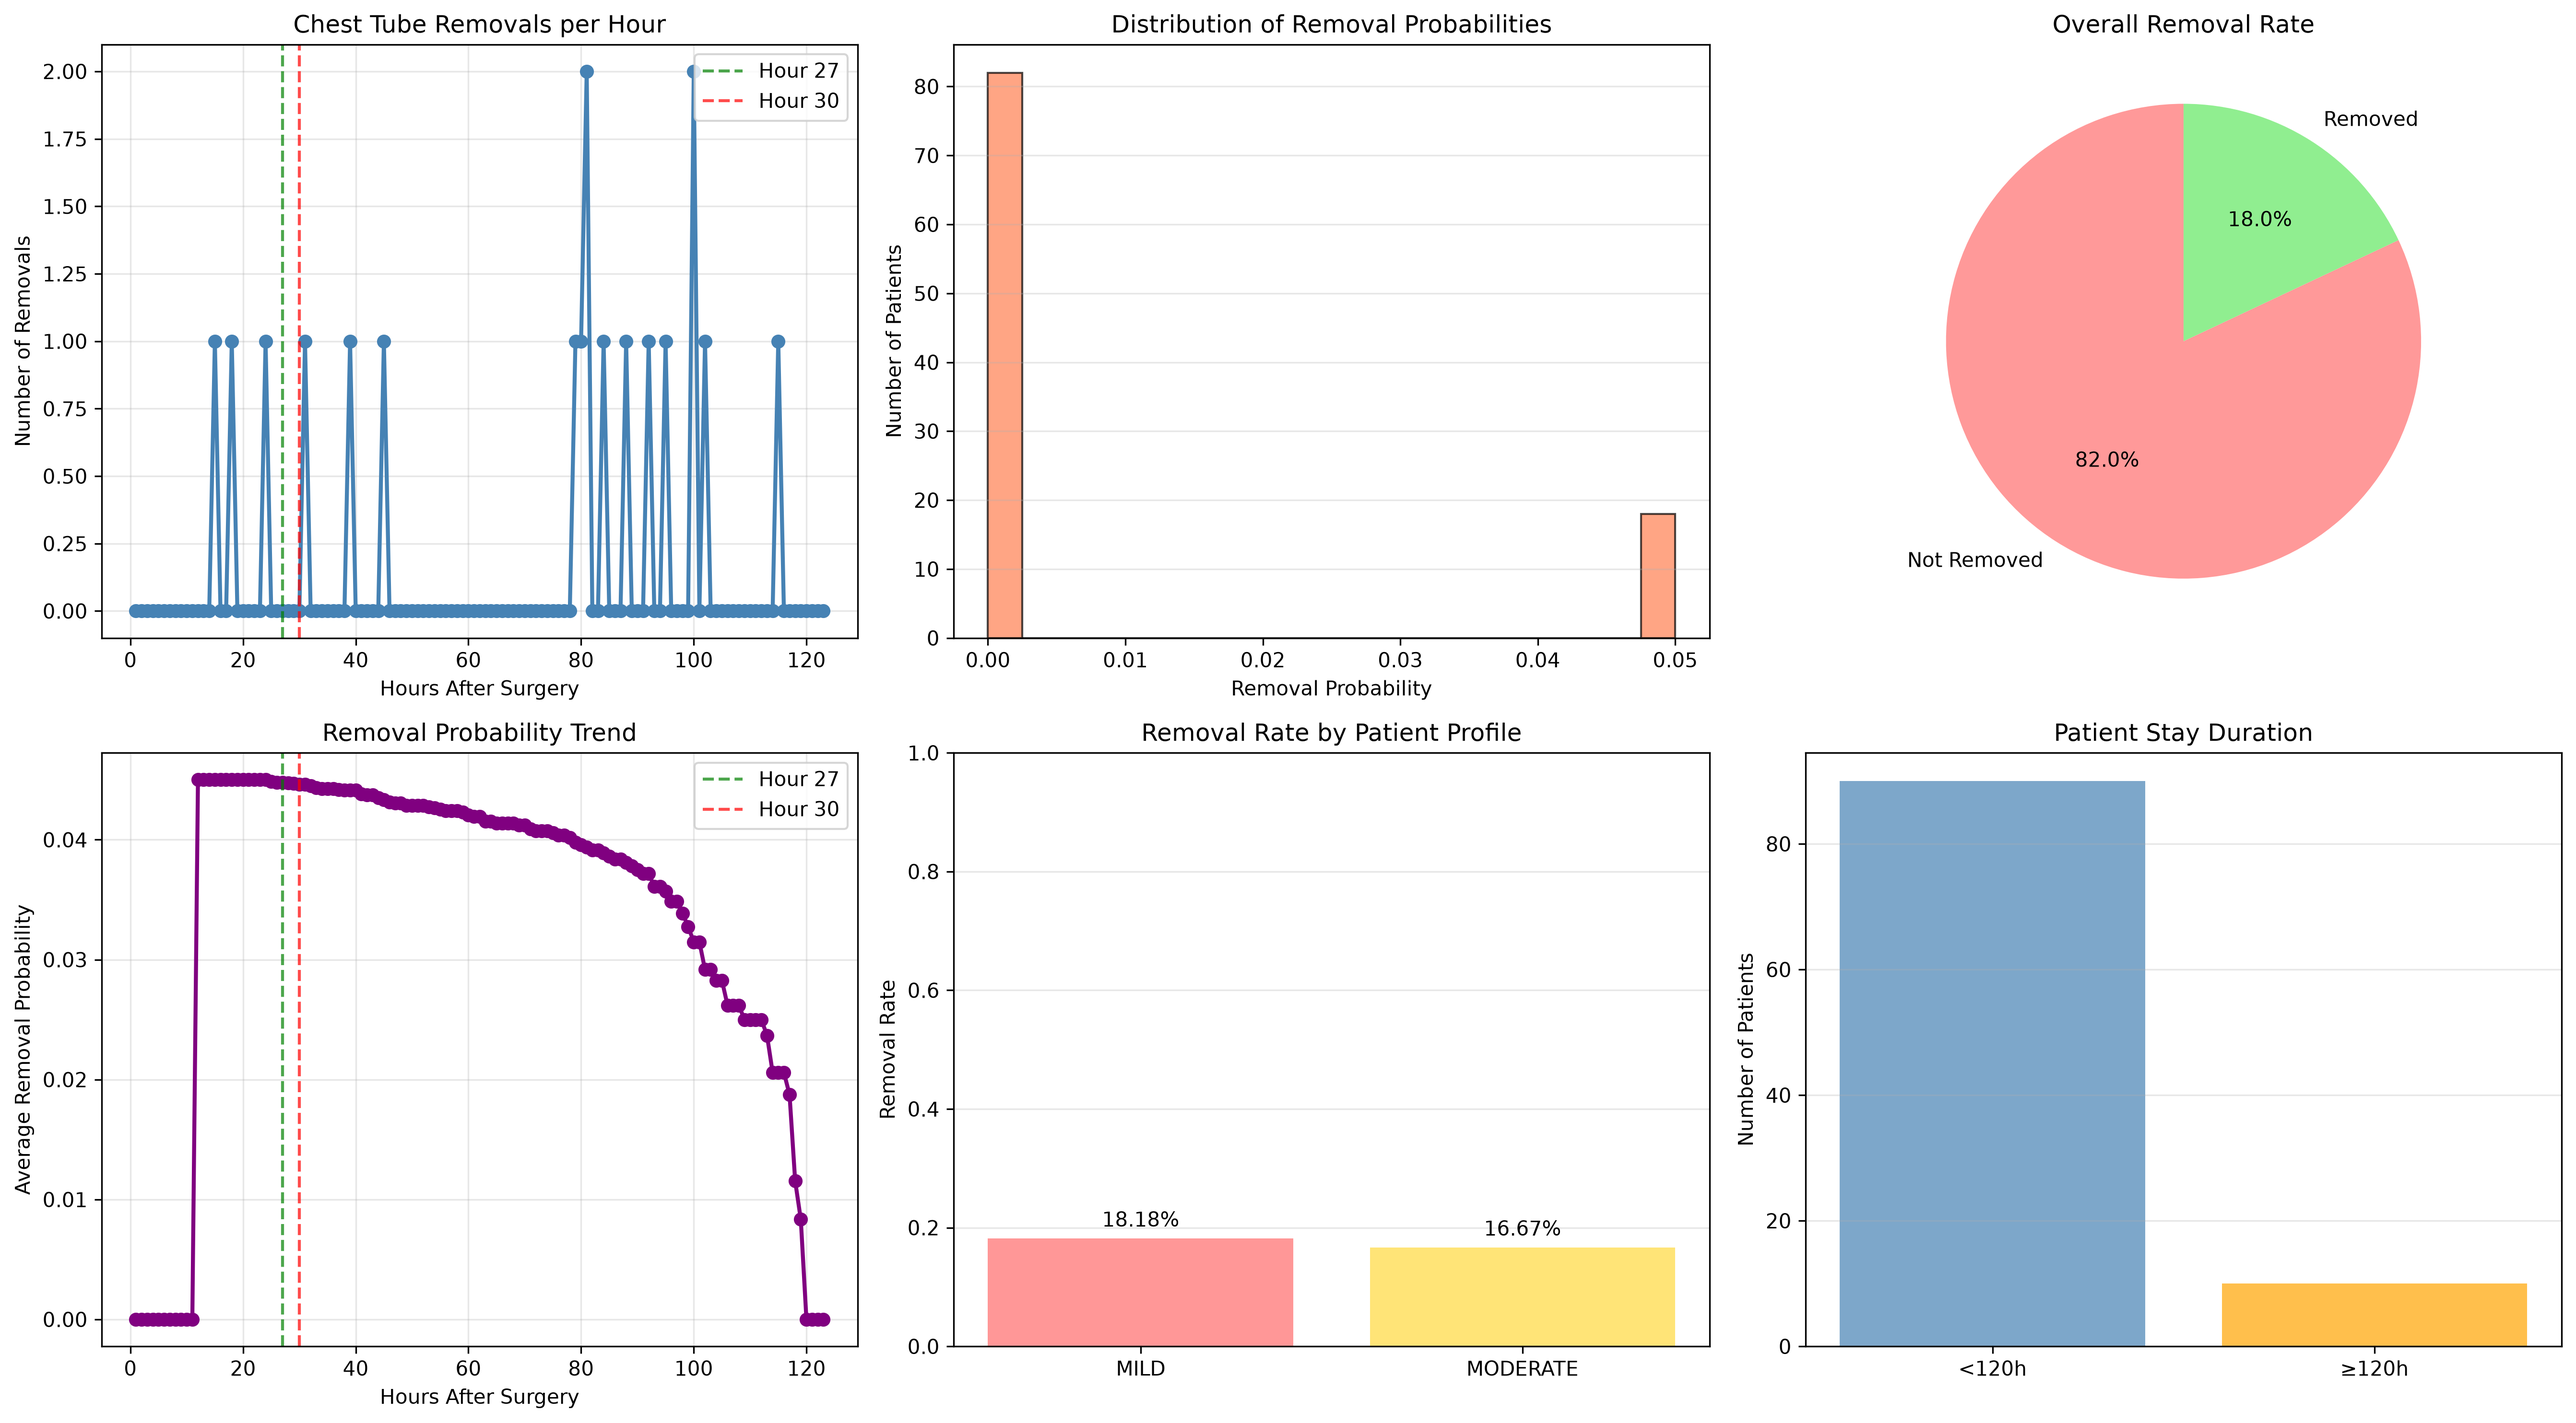
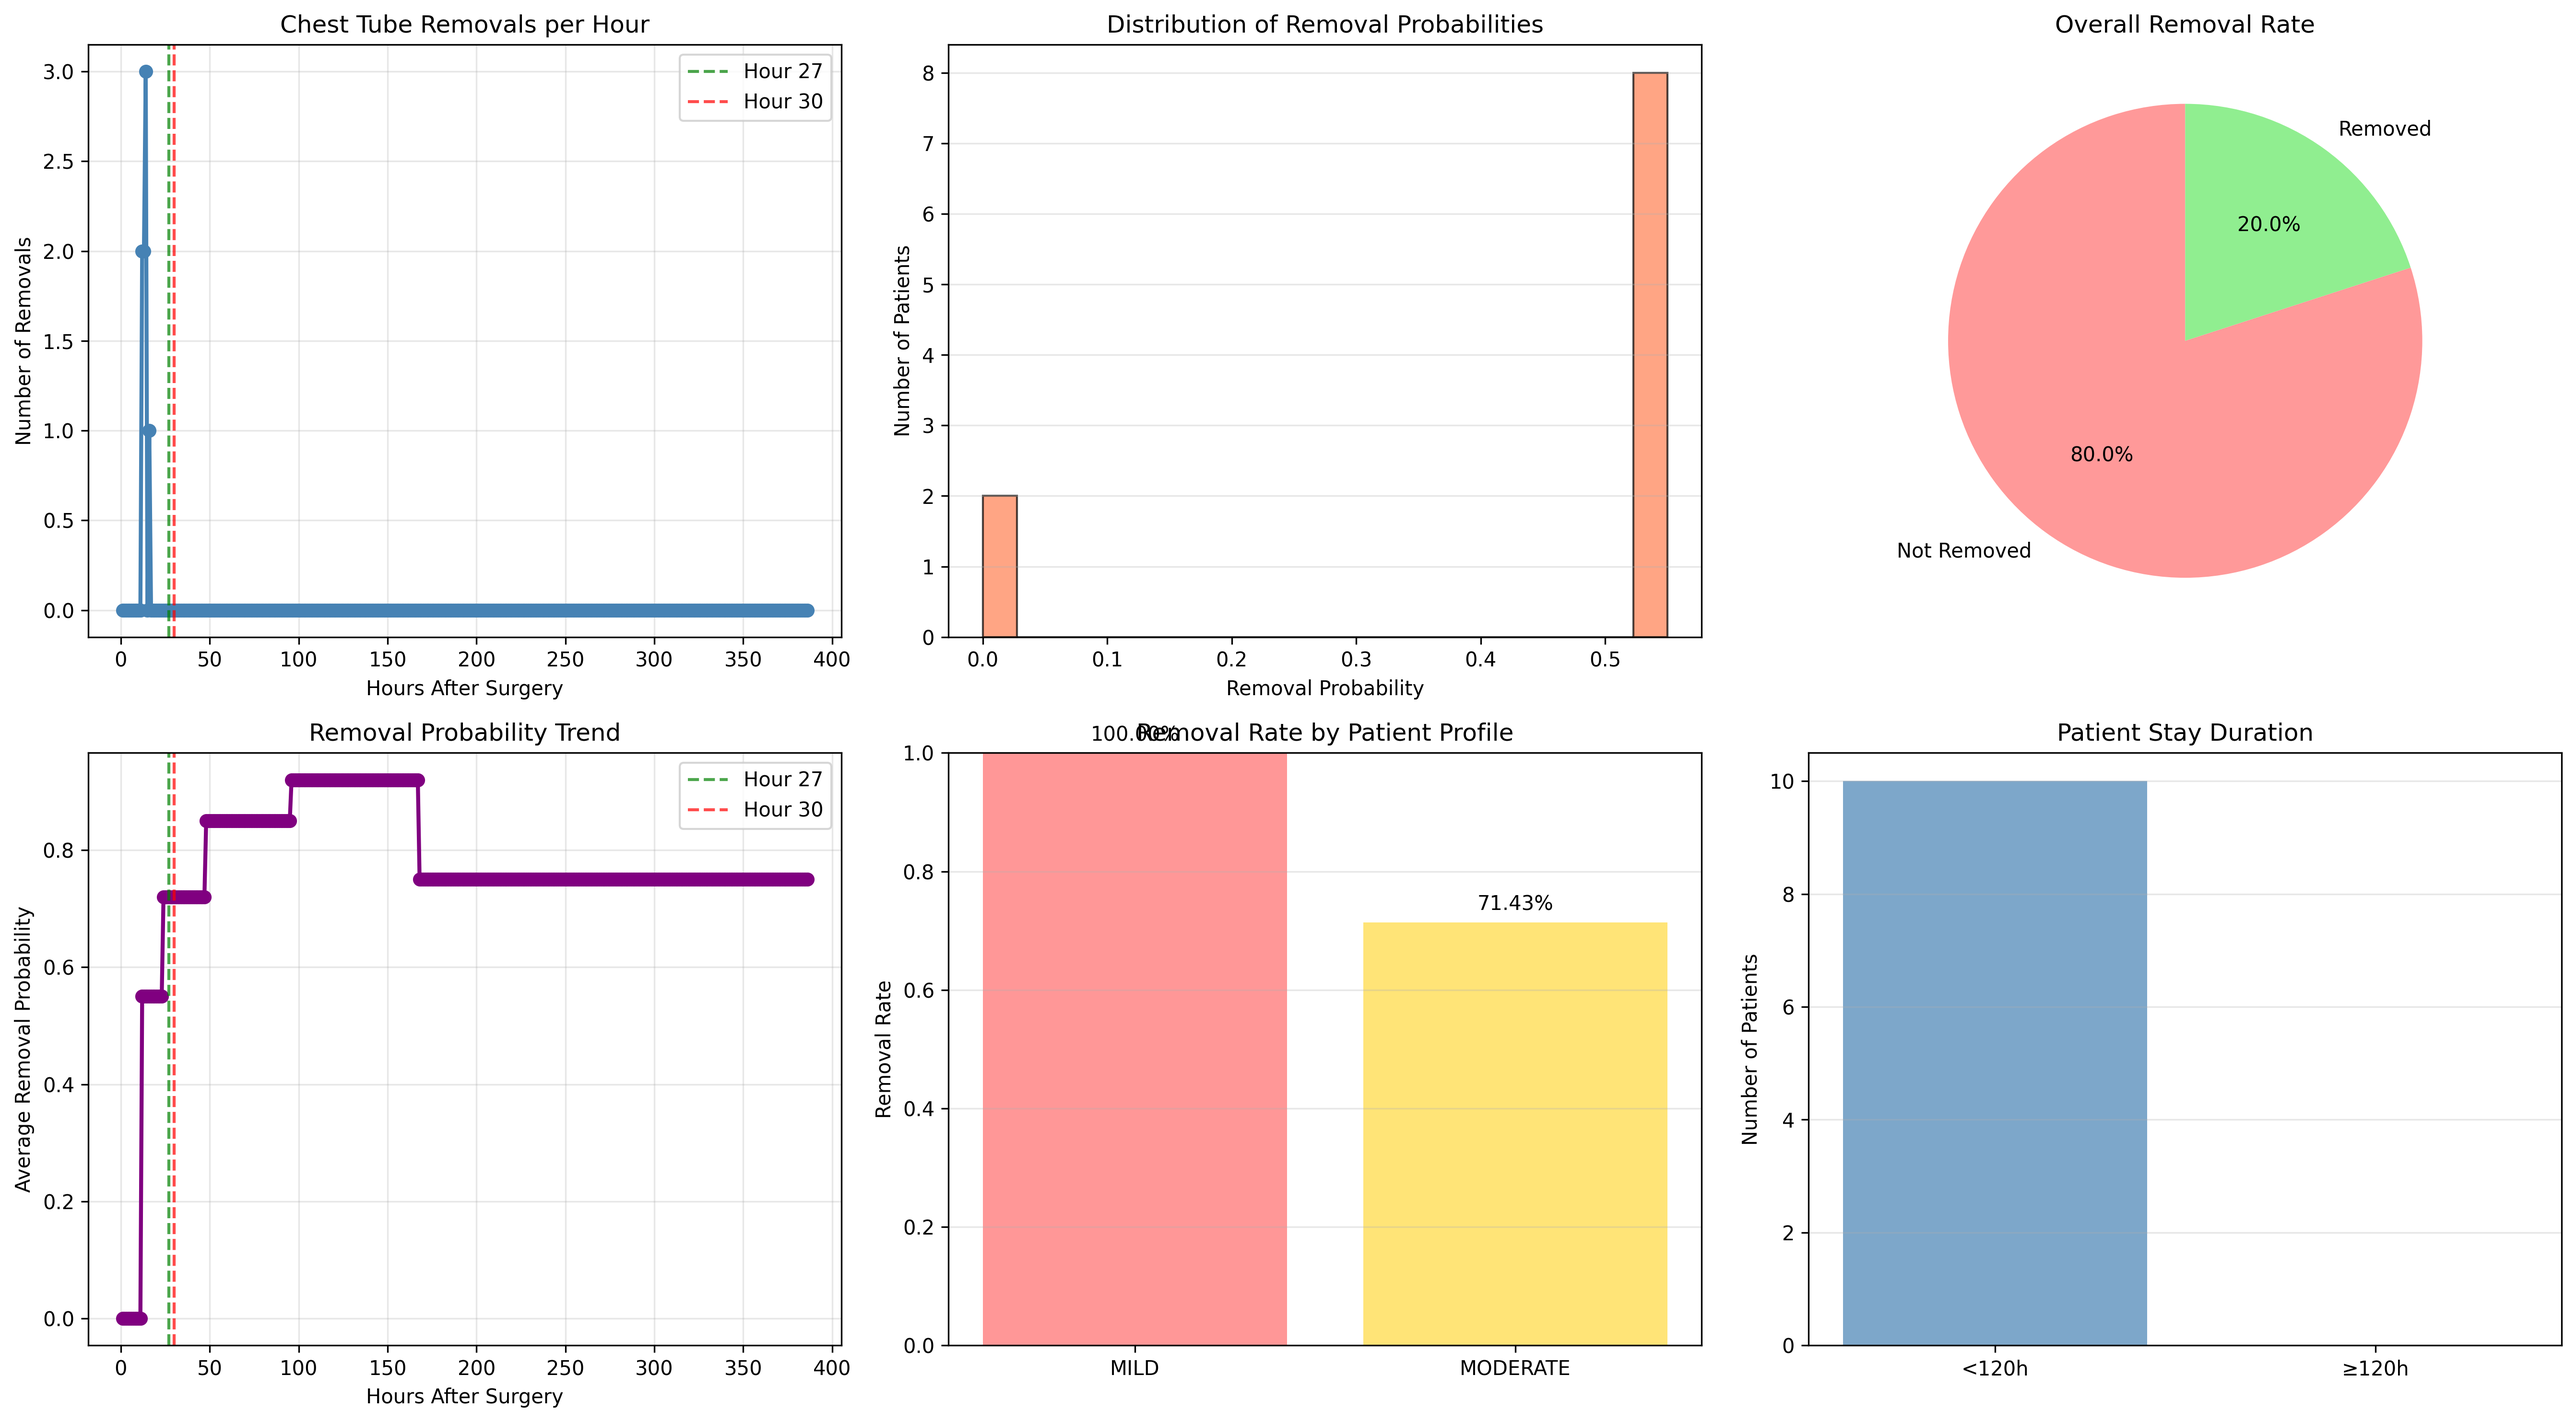
removed AUC

diff --git a/graphs/tableflow_graphs.py b/graphs/tableflow_graphs.py
@@ -9,9 +9,8 @@ import matplotlib
 matplotlib.use("Agg")
 import matplotlib.pyplot as plt
 
-from tableflow import (
+from tableFlow import (
     add_time_since_surgery,
-    build_auc_over_time,
     build_flow_table,
     build_hourly_feature_summary,
     generate_synthetic_data,
@@ -84,38 +83,25 @@ def plot_removal_metrics(removal_df, hourly_df, output_file="removal_analysis.pn
     plt.close()
 
 
-# Plot how predictive performance and air-leak summary values change over time for removed vs. non-removed patients.
-def plot_summary_and_auc(summary_stats, auc_over_time, output_file="summary_auc_analysis.png"):
-    fig, axes = plt.subplots(1, 2, figsize=(16, 6))
-
-    if not auc_over_time.empty:
-        for feature, group in auc_over_time.groupby("Feature"):
-            axes[0].plot(group["Hour"], group["AUC"], marker="o", linewidth=2, label=feature)
-        axes[0].axvline(27, color="green", linestyle="--", alpha=0.7, label="Hour 27")
-        axes[0].axvline(30, color="red", linestyle="--", alpha=0.7, label="Hour 30")
-        axes[0].axhline(0.5, color="gray", linestyle=":", alpha=0.5)
-        axes[0].set_xlabel("Hours After Surgery")
-        axes[0].set_ylabel("AUC")
-        axes[0].set_title("Separation (AUC) Over Time")
-        axes[0].set_ylim([0, 1])
-        axes[0].grid(alpha=0.3)
-        axes[0].legend()
+# Plot hourly air-leak summary values for removed vs. non-removed patients.
+def plot_summary_stats(summary_stats, output_file="summary_feature_analysis.png"):
+    fig, axes = plt.subplots(1, 1, figsize=(12, 6))
 
     if not summary_stats.empty:
         air_leak = summary_stats[summary_stats["Feature"] == "AirLeakFlow"]
         for group_name, group in air_leak.groupby("Group"):
-            axes[1].plot(group["Hour"], group["Mean"], marker="o", linewidth=2, label=f"{group_name} (mean)")
-            axes[1].fill_between(
+            axes.plot(group["Hour"], group["Mean"], marker="o", linewidth=2, label=f"{group_name} (mean)")
+            axes.fill_between(
                 group["Hour"],
                 group["Mean"] - group["Std"],
                 group["Mean"] + group["Std"],
                 alpha=0.15,
             )
-        axes[1].set_xlabel("Hours After Surgery")
-        axes[1].set_ylabel("AirLeakFlow")
-        axes[1].set_title("AirLeakFlow: Removed vs Not Removed")
-        axes[1].grid(alpha=0.3)
-        axes[1].legend()
+        axes.set_xlabel("Hours After Surgery")
+        axes.set_ylabel("AirLeakFlow")
+        axes.set_title("AirLeakFlow: Removed vs Not Removed")
+        axes.grid(alpha=0.3)
+        axes.legend()
 
     plt.tight_layout()
     plt.savefig(output_file, dpi=300, bbox_inches="tight")
@@ -137,8 +123,7 @@ def generate_graph_outputs(num_patients=None, output_dir=None):
 
     flow_with_time = add_time_since_surgery(flow, manifest_data, "Timestamp")
     summary_stats = build_hourly_feature_summary(flow_with_time, removal_predictions)
-    auc_over_time = build_auc_over_time(hourly_removals, removal_predictions)
-    plot_summary_and_auc(summary_stats, auc_over_time, output_dir / "summary_auc_analysis.png")
+    plot_summary_stats(summary_stats, output_dir / "summary_feature_analysis.png")
 
     return {
         "manifest": manifest_data,
@@ -147,7 +132,6 @@ def generate_graph_outputs(num_patients=None, output_dir=None):
         "removal_predictions": removal_predictions,
         "hourly_removals": hourly_removals,
         "summary_stats": summary_stats,
-        "auc_over_time": auc_over_time,
     }
 
 

diff --git a/tableFlow.py b/tableFlow.py
@@ -1,6 +1,5 @@
 import numpy as np
 import pandas as pd
-from sklearn.metrics import roc_auc_score
 
 GRADES = ["Z", "O", "T", "TH"]
 
@@ -382,36 +381,6 @@ def build_hourly_feature_summary(flow_with_time, removal_predictions):
     return round_numeric_columns(summary_stats)
 
 
-# Compute AUC over time to see how well each feature separates near-term removals.
-def build_auc_over_time(hourly_df, removal_predictions, next_n_hours=24):
-    feature_cols = ["AirLeakFlow_Max_8h", "FluidOutput_Max_PerMin_8h"]
-    auc_rows = []
-    feature_input = hourly_df.merge(
-        removal_predictions[["StudyID", "RemovalHour"]], on="StudyID", how="left"
-    )
-
-    for hour in sorted(feature_input["Hour"].dropna().unique()):
-        hour_frame = feature_input[feature_input["Hour"] == hour].copy()
-        if hour_frame.empty:
-            continue
-        hour_frame["RemovedSoon"] = (
-            hour_frame["RemovalHour"].notna()
-            & hour_frame["RemovalHour"].between(hour, hour + next_n_hours)
-        )
-        for feature in feature_cols:
-            values = hour_frame[feature].astype(float)
-            target = hour_frame["RemovedSoon"].astype(int)
-            if values.notna().sum() < 2 or target.sum() < 2 or target.sum() == len(target):
-                continue
-            try:
-                auc = roc_auc_score(target, values)
-            except ValueError:
-                auc = np.nan
-            auc_rows.append({"Hour": hour, "Feature": feature, "AUC": auc})
-
-    return round_numeric_columns(pd.DataFrame(auc_rows))
-
-
 # Save the flow table in a tab-separated format for downstream use.
 def save_flow_table(flow, filename="flow_output.tab"):
     flow = round_numeric_columns(flow)
@@ -435,9 +404,6 @@ def export_csv_outputs(num_patients=None, output_dir="."):
     summary_stats = build_hourly_feature_summary(flow_with_time, removal_predictions)
     summary_stats.to_csv(f"{output_dir}/hourly_feature_summary.csv", index=False)
 
-    auc_over_time = build_auc_over_time(hourly_removals, removal_predictions)
-    auc_over_time.to_csv(f"{output_dir}/auc_over_time.csv", index=False)
-
     force_no_removal_count = int(removal_predictions["ForceNoRemoval"].sum())
     pd.DataFrame({"ForceNoRemovalCount": [force_no_removal_count]}).to_csv(f"{output_dir}/force_no_removal_report.csv", index=False)
 
@@ -460,7 +426,6 @@ def export_csv_outputs(num_patients=None, output_dir="."):
         "flow_with_time": flow_with_time,
         "cxr_with_time": cxr_with_time,
         "summary_stats": summary_stats,
-        "auc_over_time": auc_over_time,
     }
 
 
